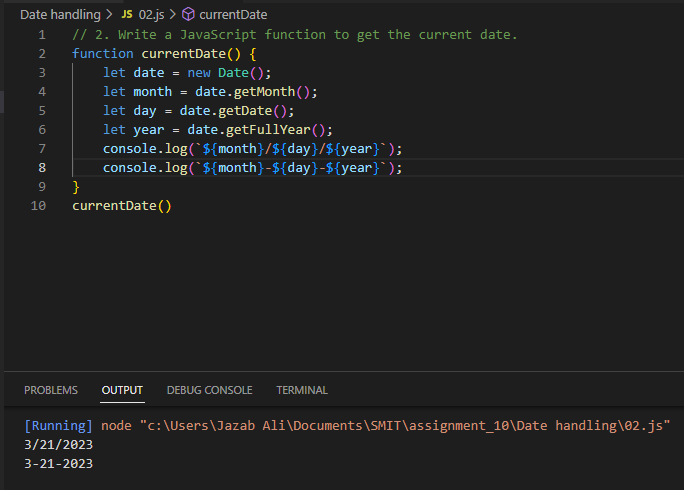
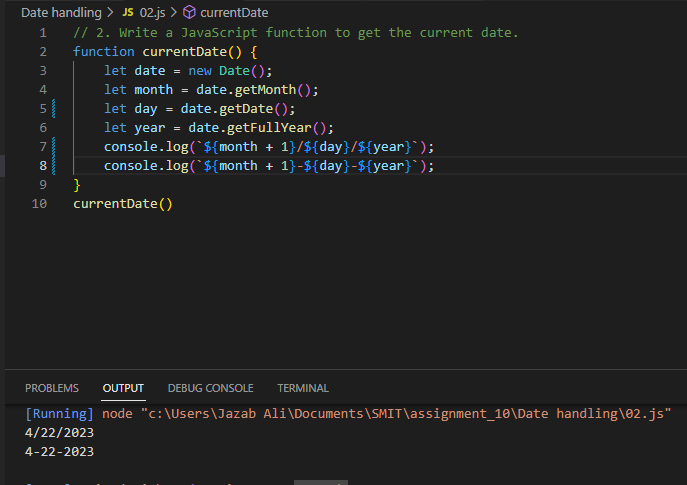
...

diff --git a/Date handling/05.js b/Date handling/05.js
@@ -1,0 +1,15 @@
+// 5. Write a JavaScript function to compare dates (i.e. greater than, less than or equal to).   
+function compare_dates(d1,d2) {
+    if (d1 > d2){
+        console.log("Date1 > Date2");        
+    } else if(d1 < d2) {
+        console.log("Date1 < Date2");   
+    } else{
+        console.log("Date1 = Date2");   
+    }  
+}
+compare_dates(new Date('11/14/2013 00:00'), new Date('11/14/2013 00:00'))
+
+compare_dates(new Date('11/14/2013 00:01'), new Date('11/14/2013 00:00'));
+
+compare_dates(new Date('11/14/2013 00:00'), new Date('11/14/2013 00:01'));

diff --git a/Date handling/08.js b/Date handling/08.js
@@ -1,0 +1,12 @@
+// 8. Write a JavaScript function to get difference between two dates in days.   
+function dateDiffIndays(date1,date2) {
+    date1 = new Date(date1);
+    date2 = new Date(date2);
+    const oneDay = 24 * 60 * 60 * 1000
+    diffInTime = Math.abs(date2.getTime() - date1.getTime());
+    diffInDays = Math.round(diffInTime / oneDay);
+    return diffInDays
+
+}
+console.log(dateDiffIndays('04/02/2014', '11/04/2014'));
+console.log(dateDiffIndays('12/02/2014', '11/04/2014'));

diff --git a/Date handling/17.js b/Date handling/17.js
@@ -1,0 +1,12 @@
+// 17. Write a JavaScript function to convert a Unix timestamp to time.   
+function convertUnixTimestamp(timestamp) {
+    var date = new Date(timestamp * 1000);
+    var hours = date.getHours();
+    var minutes = date.getMinutes();
+    var seconds = date.getSeconds();
+    var formattedTime = hours + ':' + minutes + ':' + seconds;
+    return formattedTime;
+  }
+  console.log(convertUnixTimestamp(1682284847));
+  console.log(convertUnixTimestamp(1619388100)); 
+

diff --git a/Date handling/11.js b/Date handling/11.js
@@ -1,0 +1,7 @@
+// 11. Write a JavaScript function to get the maximum date from an array of dates.   
+function getMaxDate(array){
+    const date = array.map(dateString => new Date(dateString));
+    const maxDate = new Date(Math.max.apply(0, date));
+    return maxDate.getFullYear() + '/' + (maxDate.getMonth() + 1) + '/' + maxDate.getDate()
+}
+console.log(getMaxDate(['2015/02/01', '2015/02/02', '2015/01/03']));

diff --git a/Date handling/12.js b/Date handling/12.js
@@ -1,0 +1,7 @@
+// 12. Write a JavaScript function to get the minimum date from an array of dates.   
+function getMinDate(array) {
+    const date = array.map(element => new Date(element));
+    const minDate = new Date(Math.min.apply(0, date));
+    return minDate.getFullYear() + '/' + (minDate.getMonth() + 1) + '/' + minDate.getDate()
+}
+console.log(getMinDate(['2015/02/01', '2015/02/02', '2015/01/03']));

diff --git a/Date handling/02.js b/Date handling/02.js
@@ -2,9 +2,9 @@
 function currentDate() {
     let date = new Date();
     let month = date.getMonth();
-    let day = date.getDate();   
+    let day = date.getDate();  
     let year = date.getFullYear();
-    console.log(`${month}/${day}/${year}`);
-    console.log(`${month}-${day}-${year}`);
+    console.log(`${month + 1}/${day}/${year}`);
+    console.log(`${month + 1}-${day}-${year}`);
 }
 currentDate()

diff --git a/Date handling/07.js b/Date handling/07.js
@@ -1,0 +1,13 @@
+// 7. Write a JavaScript function to test whether a date is a weekend.   
+function isWeekend(date) {
+    date = new Date(date)
+    const dayOfWeek = date.getDay();
+    if (dayOfWeek === 6 || dayOfWeek === 0) {
+        console.log("is weekend");
+    } else {
+        console.log("undefined");
+    }
+}
+isWeekend('Nov 15, 2014');
+isWeekend('Nov 16, 2014');
+isWeekend('Nov 17, 2014');

diff --git a/Date handling/16.js b/Date handling/16.js
@@ -1,0 +1,9 @@
+// 16. Write a JavaScript function to count the number of days passed since beginning of the year.   
+function passedDays(date) {
+    let startOfYeaar = new Date(date.getFullYear(), 0, 0);
+    let diff = date - startOfYeaar
+    let oneDay = 24 * 60 * 60 * 1000;
+    return (diff/oneDay)
+}
+console.log(passedDays(new Date(2015, 0, 15)));
+console.log(passedDays(new Date(2015, 11, 14)));

diff --git a/Date handling/10.js b/Date handling/10.js
@@ -1,0 +1,9 @@
+// 10. Write a JavaScript function to calculate 'yesterday day'.   
+function yesterday(dateString) {
+    const date = new Date(dateString);
+    date.setDate(date.getDate() - 1);
+    return date.toString();
+  }
+console.log(yesterday('Nov 15, 2014'));
+console.log(yesterday('Nov 16, 2015'));
+console.log(yesterday('Nov 17, 2016'));

diff --git a/Date handling/13.js b/Date handling/13.js
@@ -1,0 +1,7 @@
+// 13. Write a JavaScript function that will return the number of minutes in hours and minutes.   
+function timeConvert(minutes) {
+    hours = Math.floor(minutes / 60);
+    mins = minutes % 60;
+    return minutes + ' minutes ' + ' = ' + hours + ' hour(s) ' + mins + ' minute(s) '       
+}
+console.log(timeConvert(200));

diff --git a/Date handling/15.js b/Date handling/15.js
@@ -1,0 +1,8 @@
+// 15. Write a JavaScript function to get the quarter (1 to 4) of the year.   
+function quarterOfYear(date) {
+    month = new Date(date).getMonth();
+   return Math.ceil(month / 3)
+}
+console.log(quarterOfYear(new Date(2015, 1, 21)));
+
+console.log(quarterOfYear(new Date(2015, 10, 18)));

diff --git a/Date handling/14.js b/Date handling/14.js
@@ -1,0 +1,7 @@
+// 14. Write a JavaScript function to get the amount of days of a year.   
+function daysOfAYear(year) {
+    let isLeapYear = (year % 4 == 0 && year % 100 != 0) || year % 400 == 0;
+    return isLeapYear ? 366 : 365;
+}
+console.log(daysOfAYear(2015));
+console.log(daysOfAYear(2016));
